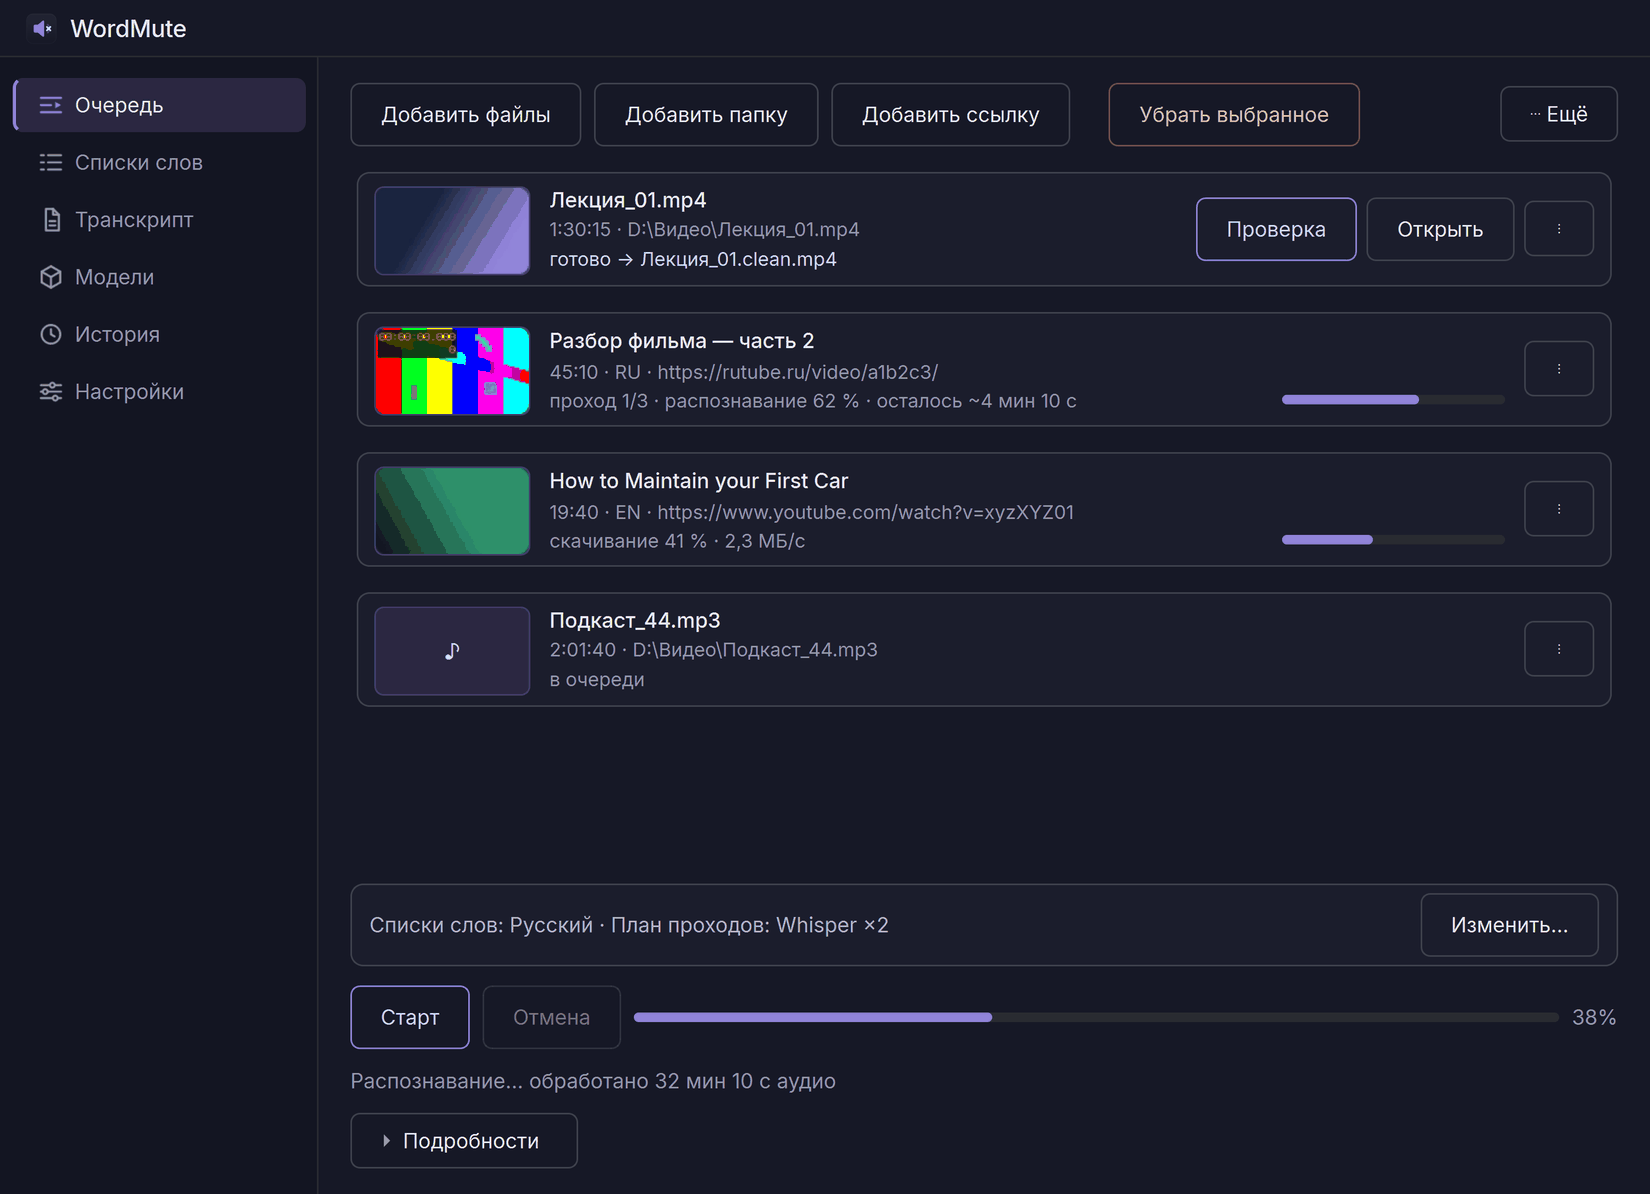
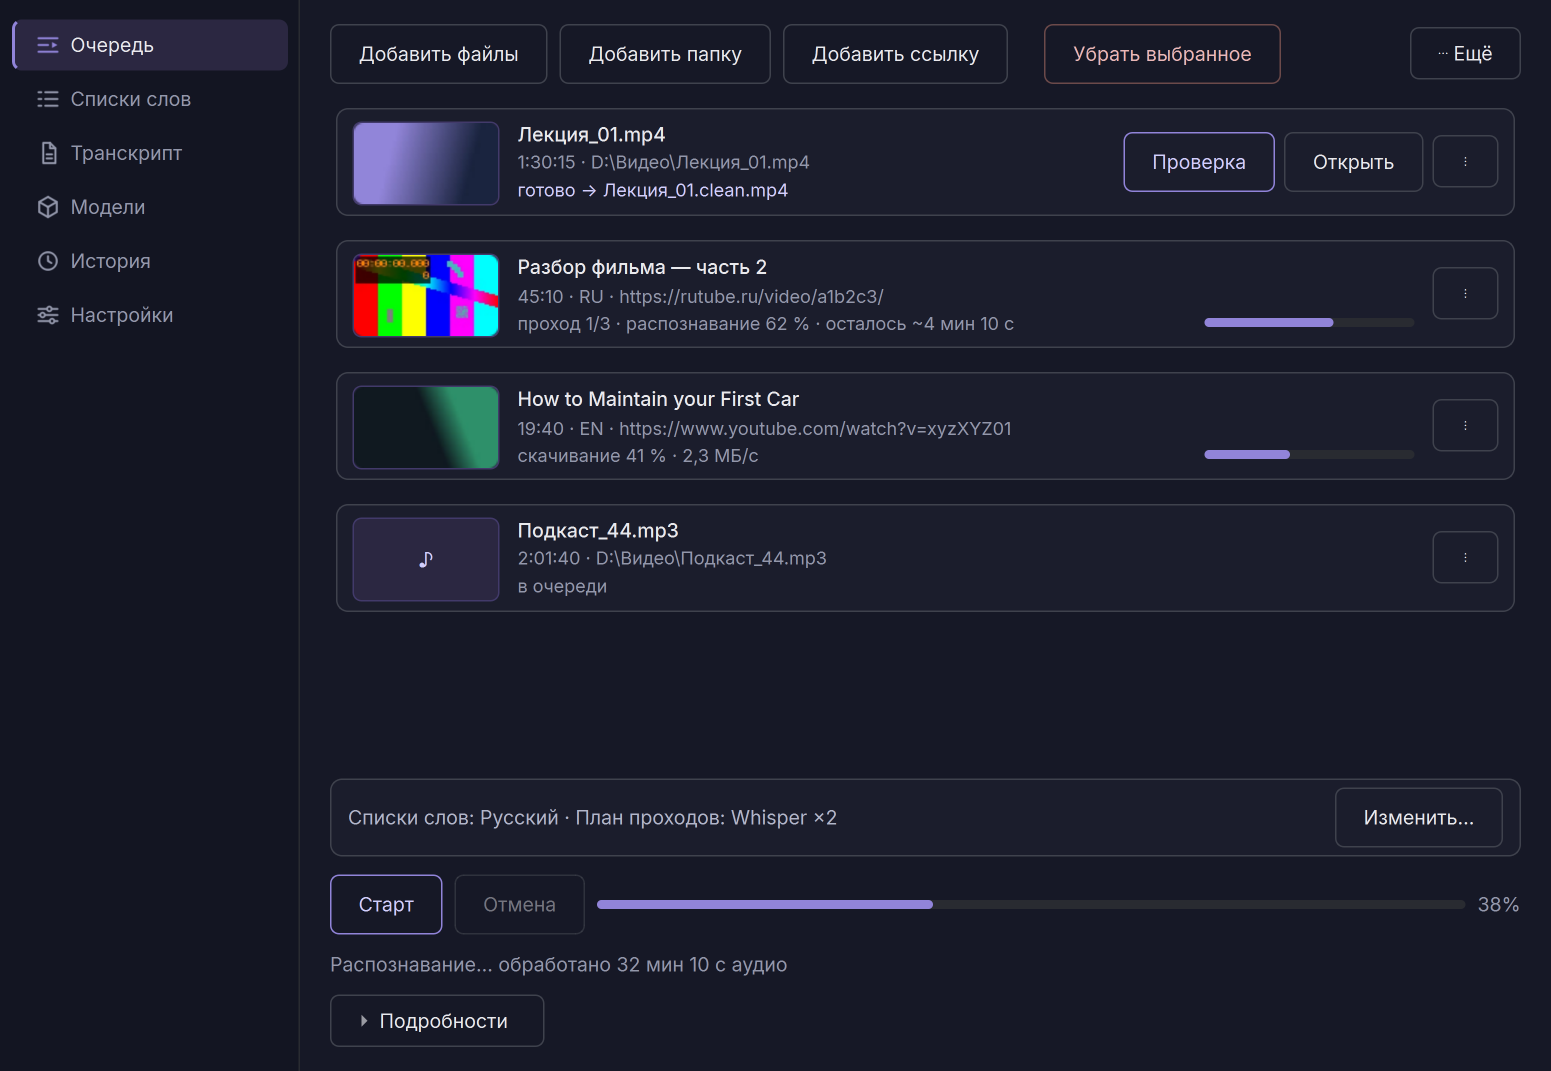
Site: refresh the four screenshots from the 0.7.0 renders
The «Интерфейс» section still showed the 0.6.0 app: the in-app
«WordMute» header strip, the old Add-URL dialog, the three-row Word
Lists tab and the old review dialog. scripts/site_screenshots.py now
derives docs/screenshots/*.png from the design renders (2x → 1x,
~100 KB each); the Word Lists shot shows the Ctrl+F bar. The grid pairs
the two window shots in one row and the two dialogs in the other
(align-items: start) instead of leaving a hole under the short review
shot. .claude/launch.json serves docs/ for previewing.

diff --git a/docs/index.html b/docs/index.html
@@ -228,7 +228,8 @@
   }
   .guide strong { color: var(--text); }
 
-  .shots { display: grid; grid-template-columns: repeat(2, 1fr); gap: 18px; }
+  /* windows pair in row one, dialogs in row two (scripts/site_screenshots.py) */
+  .shots { display: grid; grid-template-columns: repeat(2, 1fr); gap: 18px; align-items: start; }
   .shots figure { margin: 0; }
   .shots a { display: block; border-radius: var(--radius); }
   .shots img {
@@ -484,6 +485,12 @@
           <figcaption>Очередь обработки: файлы, ссылки, прогресс</figcaption>
         </figure>
         <figure>
+          <a href="screenshots/wordlists.png" target="_blank" rel="noopener">
+            <img src="screenshots/wordlists.png" alt="Редактор списков слов с поиском по Ctrl+F и проверкой «заглушится ли слово»" loading="lazy">
+          </a>
+          <figcaption>Списки слов: поиск по Ctrl+F и проверка «заглушится ли слово»</figcaption>
+        </figure>
+        <figure>
           <a href="screenshots/review.png" target="_blank" rel="noopener">
             <img src="screenshots/review.png" alt="Экран проверки со списком заглушенных слов и таймкодами" loading="lazy">
           </a>
@@ -494,12 +501,6 @@
             <img src="screenshots/add-url.png" alt="Диалог добавления видео по ссылке с таблицей форматов и качества" loading="lazy">
           </a>
           <figcaption>Загрузка по ссылке с выбором качества</figcaption>
-        </figure>
-        <figure>
-          <a href="screenshots/wordlists.png" target="_blank" rel="noopener">
-            <img src="screenshots/wordlists.png" alt="Редактор списков слов с проверкой «Почему это заглушится?»" loading="lazy">
-          </a>
-          <figcaption>Редактор списков слов</figcaption>
         </figure>
       </div>
     </div>

diff --git a/scripts/site_screenshots.py b/scripts/site_screenshots.py
@@ -1,0 +1,38 @@
+"""Refresh the landing page's four screenshots from the design renders.
+
+docs/design/*.png are 2x-density shots for the design round-trips
+(3102x2142 for a window); the page needs them at 1x and ~150 KB. Run
+after `python scripts/render_screenshots.py`:
+
+    python scripts/site_screenshots.py
+"""
+
+import sys
+from pathlib import Path
+
+from PySide6.QtCore import Qt
+from PySide6.QtGui import QGuiApplication, QImage
+
+ROOT = Path(__file__).resolve().parent.parent
+DESIGN = ROOT / "docs" / "design"
+SITE = ROOT / "docs" / "screenshots"
+
+# page file -> design render (keep in sync with docs/index.html)
+PICKS = {
+    "queue.png": "02_queue_running.png",
+    "review.png": "18_dialog_review.png",
+    "add-url.png": "16_dialog_add_url_single.png",
+    "wordlists.png": "09_tab_wordlists_find.png",
+}
+
+app = QGuiApplication(sys.argv)
+SITE.mkdir(exist_ok=True)
+for target, source in PICKS.items():
+    image = QImage(str(DESIGN / source))
+    if image.isNull():
+        sys.exit(f"missing render: {source} — run render_screenshots.py first")
+    scaled = image.scaled(image.width() // 2, image.height() // 2,
+                          Qt.IgnoreAspectRatio, Qt.SmoothTransformation)
+    scaled.save(str(SITE / target), "PNG")
+    print(f"{target:14} {scaled.width()}x{scaled.height()}  "
+          f"{(SITE / target).stat().st_size // 1024} KB  <- {source}")
